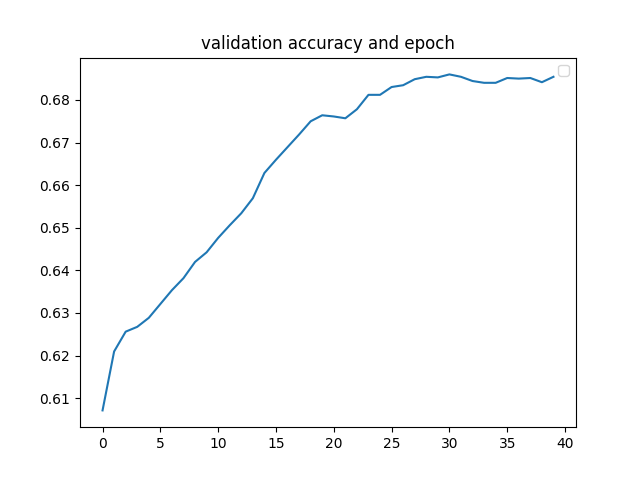
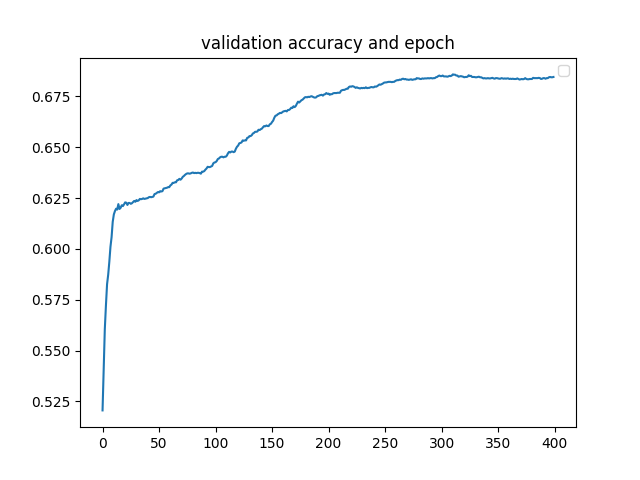
modified name to make it clearer

diff --git a/partB_test/NN_original.py b/partB_test/NN_original.py
@@ -50,10 +50,10 @@ class AutoEncoder(nn.Module):
         # Define linear functions.
         self.g = nn.Linear(num_question, k)
         self.h = nn.Linear(k, num_question)
-        self.i1 = nn.Linear(k, l)
-        self.i2 = nn.Linear(l, m)
-        self.i3 = nn.Linear(m, l)
-        self.i4 = nn.Linear(l, k)
+        self.encode1 = nn.Linear(k, l)
+        self.encode2 = nn.Linear(l, m)
+        self.decode1 = nn.Linear(m, l)
+        self.decode2 = nn.Linear(l, k)
         self.user_b = torch.rand(k, num_question)
 
     def get_weight_norm(self):
@@ -63,11 +63,11 @@ class AutoEncoder(nn.Module):
         """
         g_w_norm = torch.norm(self.g.weight, 2) ** 2
         h_w_norm = torch.norm(self.h.weight, 2) ** 2
-        i1_w_norm = torch.norm(self.i1.weight, 2) ** 2
-        i2_w_norm = torch.norm(self.i2.weight, 2) ** 2
-        i3_w_norm = torch.norm(self.i3.weight, 2) ** 2
-        i4_w_norm = torch.norm(self.i4.weight, 2) ** 2
-        return g_w_norm + h_w_norm + i1_w_norm + i2_w_norm + i3_w_norm + i4_w_norm
+        en1_w_norm = torch.norm(self.encode1.weight, 2) ** 2
+        en2_w_norm = torch.norm(self.encode2.weight, 2) ** 2
+        de1_w_norm = torch.norm(self.decode1.weight, 2) ** 2
+        de2_w_norm = torch.norm(self.decode2.weight, 2) ** 2
+        return g_w_norm + h_w_norm + en1_w_norm + en2_w_norm + de1_w_norm + de2_w_norm
 
     def forward(self, inputs):
         """ Return a forward pass given inputs.
@@ -82,13 +82,13 @@ class AutoEncoder(nn.Module):
         #####################################################################
 
         inner = self.g.forward(inputs)
-        inner_act = nn.Tanh()(inner)
-        hidden1 = self.i1.forward(inner_act)
+        inner_act = nn.ReLU()(inner)
+        hidden1 = self.encode1.forward(inner_act)
         #hidden1_act = nn.Sigmoid()(hidden1)
-        hidden2 = self.i2.forward(hidden1)
+        hidden2 = self.encode2.forward(hidden1)
         hidden2_act = nn.Sigmoid()(hidden2)
-        hidden3 = self.i3.forward(hidden2_act)
-        hidden4 = self.i4.forward(hidden3)
+        hidden3 = self.decode1.forward(hidden2_act)
+        hidden4 = self.decode2.forward(hidden3)
         outer = self.h.forward(hidden4)
         outer_activ = nn.Sigmoid()(outer)
         out = outer_activ
@@ -214,7 +214,7 @@ def main():
     model = AutoEncoder(train_matrix.shape[1], k, l, m)
 
     # Set optimization hyperparameters.
-    lr = 0.01
+    lr = 0.001
     num_epoch = 500
     lamb = 0.0001
     train(model, lr, lamb, train_matrix, zero_train_matrix,

diff --git a/part_a/neural_network.py b/part_a/neural_network.py
@@ -235,9 +235,9 @@ def main():
     model = AutoEncoder(train_matrix.shape[1], k)
 
     # Set optimization hyperparameters.
-    lr = 0.01
-    num_epoch = 40
-    lamb = 0.001
+    lr = 0.001
+    num_epoch = 400
+    lamb = 0.0001
 
     train(model, lr, lamb, train_matrix, zero_train_matrix,
           valid_data, num_epoch)
